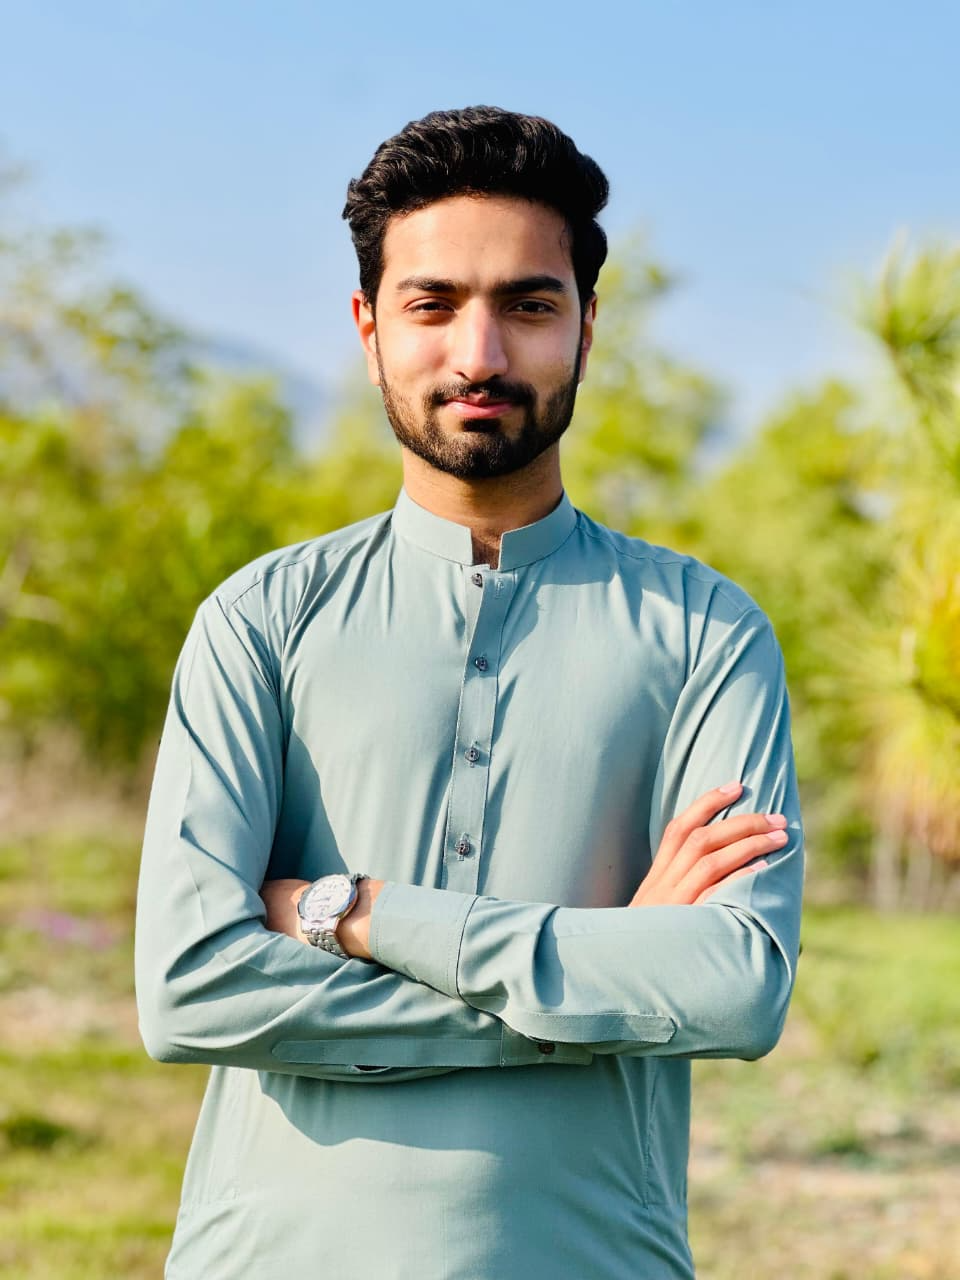
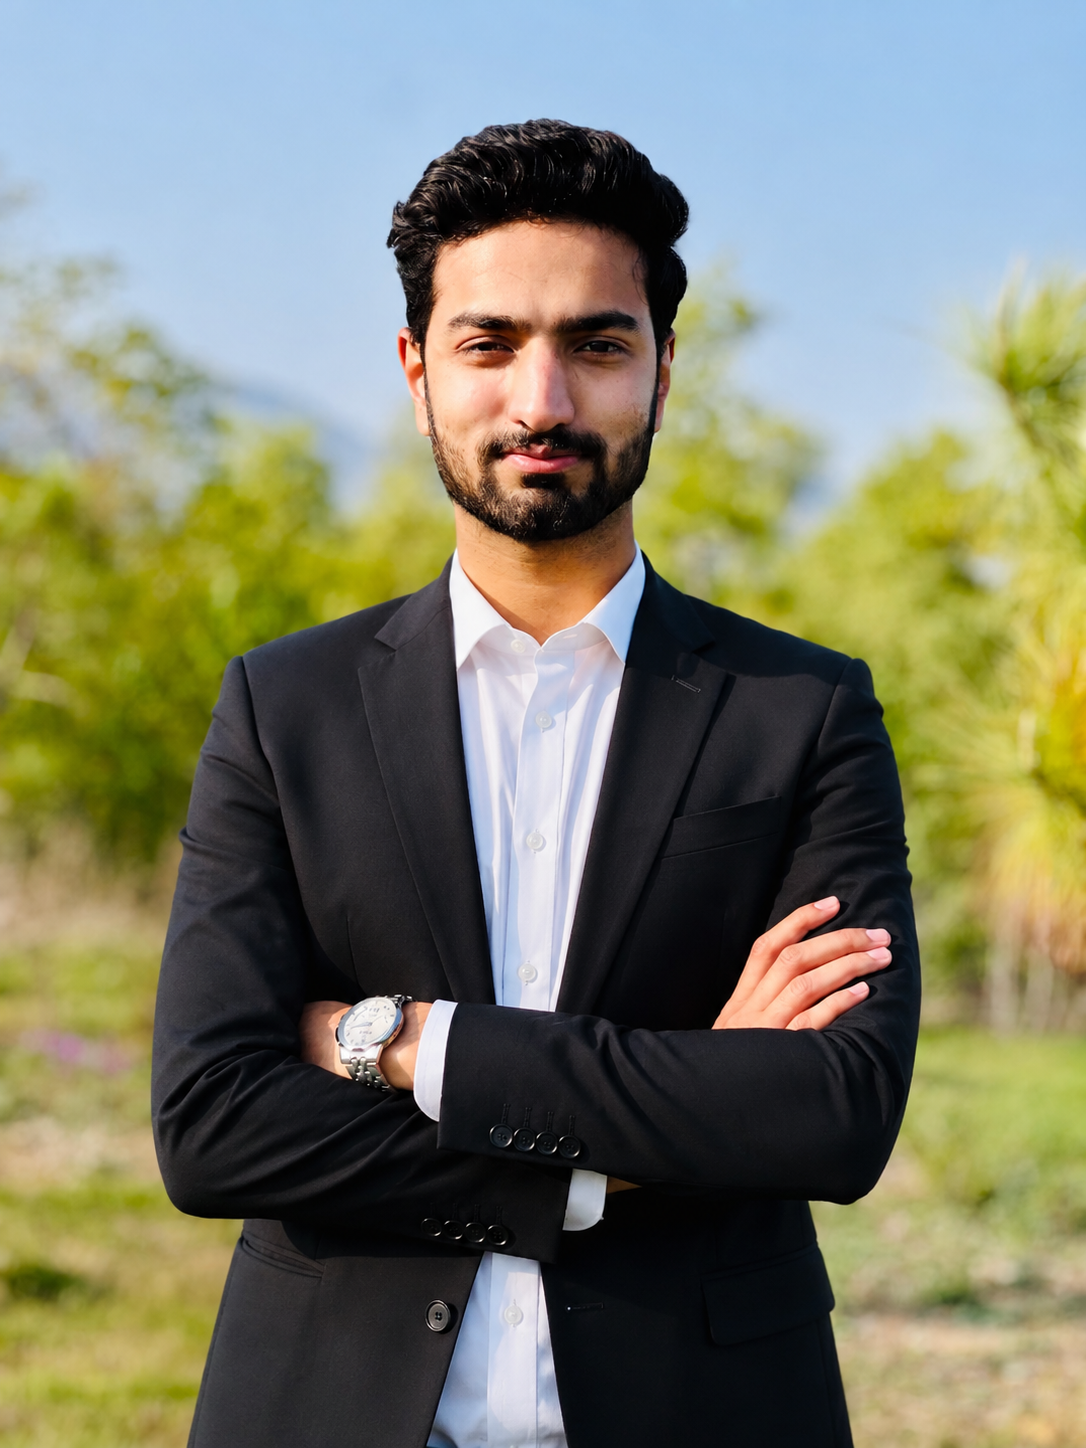
Final tweaks to images and content

diff --git a/src/components/portfolio/HeroSection.tsx b/src/components/portfolio/HeroSection.tsx
@@ -78,7 +78,7 @@ export default function HeroSection({ hero, stats }: { hero: HeroData; stats: St
 
         {/* Available badge */}
         {hero.available_for_work && (
-          <div style={{ display:'inline-flex', alignItems:'center', gap:10, background:'rgba(16,185,129,0.07)', border:'1px solid rgba(16,185,129,0.28)', color:'#6ee7b7', fontSize:'0.75rem', fontWeight:600, fontFamily:'var(--font-mono)', padding:'9px 22px', borderRadius:'50px', marginBottom:32, letterSpacing:'0.1em', animation:'hFadeDown 0.8s var(--ease) both', boxShadow:'0 0 24px rgba(16,185,129,0.12)' }}>
+          <div style={{ display:'inline-flex', alignItems:'center', gap:10, background:'rgba(16,185,129,0.07)', border:'1px solid rgba(16,185,129,0.28)', color:'var(--success, #059669)', fontSize:'0.75rem', fontWeight:600, fontFamily:'var(--font-mono)', padding:'9px 22px', borderRadius:'50px', marginBottom:32, letterSpacing:'0.1em', animation:'hFadeDown 0.8s var(--ease) both', boxShadow:'0 0 24px rgba(16,185,129,0.12)' }}>
             <span style={{ width:8, height:8, borderRadius:'50%', background:'#10b981', animation:'hPulse 2s ease infinite', display:'inline-block', boxShadow:'0 0 8px #10b981' }} />
             Available for new opportunities
           </div>
@@ -92,7 +92,7 @@ export default function HeroSection({ hero, stats }: { hero: HeroData; stats: St
               <div style={{ position:'relative', display:'inline-block' }}>
                 <div style={{ position:'absolute', inset:-3, borderRadius:'50%', background:'linear-gradient(135deg, var(--accent), var(--accent3))', opacity:0.6, filter:'blur(6px)' }} />
                 {/* eslint-disable-next-line @next/next/no-img-element */}
-                <img src={hero.avatar_url} alt={hero.name} style={{ width:100, height:100, borderRadius:'50%', objectFit:'cover', border:'3px solid var(--border2)', position:'relative', display:'block' }} />
+                <img src={hero.avatar_url} alt={hero.name} style={{ width:100, height:100, borderRadius:'50%', objectFit:'cover', objectPosition:'top', border:'3px solid var(--border2)', position:'relative', display:'block' }} />
               </div>
             </div>
           )}

diff --git a/src/lib/defaults.ts b/src/lib/defaults.ts
@@ -32,8 +32,8 @@ export const DEFAULT_DATA: PortfolioData = {
       institution: 'Quaid e Azam University Islamabad',
       year_start: '2022',
       year_end: '2026',
-      grade: 'In Progress',
-      description: 'Currently focusing on Software Engineering, Mobile App Development, and AI. Developing a Final Year Project involving AI-based sign language translation in collaboration with the Ministry of Planning and Development.',
+      grade: 'Graduated',
+      description: 'Focused on Software Engineering, Mobile App Development, and AI. Developed a Final Year Project involving AI-based sign language translation in collaboration with the Ministry of Planning and Development.',
       logo_url: '/uni.png',
       order_index: 0,
     },